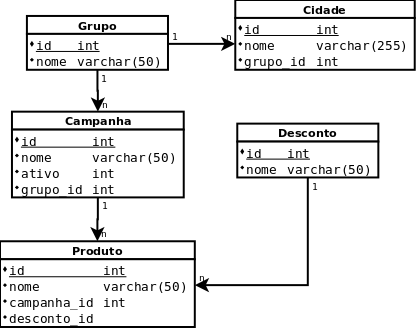
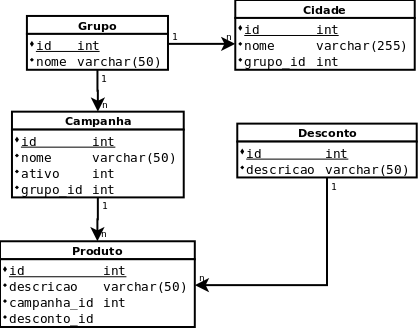
alteração mer

diff --git a/database/migrations/2021_09_04_161852_create_produtos_table.php b/database/migrations/2021_09_04_161852_create_produtos_table.php
@@ -16,6 +16,8 @@ class CreateProdutosTable extends Migration
         Schema::create('produtos', function (Blueprint $table) {
             $table->id();
             $table->string('descricao');
+            $table->unsignedBigInteger('campanha_id');
+            $table->foreign('campanha_id')->references('id')->on('campanhas')->onDelete('cascade');
             $table->unsignedBigInteger('desconto_id');
             $table->foreign('desconto_id')->references('id')->on('descontos')->onDelete('cascade');
             $table->timestamps();

diff --git a/app/Models/Produto.php b/app/Models/Produto.php
@@ -9,7 +9,7 @@ class Produto extends Model
 {
     use HasFactory;
     protected $table = 'produtos';
-    protected $fillable = ['nome', 'campanha_id', 'desconto_id'];
+    protected $fillable = ['descricao', 'campanha_id', 'desconto_id'];
 
     public function campanha()
     {

diff --git a/database/seeders/ProdutoSeeder.php b/database/seeders/ProdutoSeeder.php
@@ -16,6 +16,7 @@ class ProdutoSeeder extends Seeder
     {
         DB::table('produtos')->insert([
             'descricao' => 'Produto 1',
+            'campanha_id' => '1',
             'desconto_id' => '1'        
         ]);
     }

diff --git a/app/Models/Desconto.php b/app/Models/Desconto.php
@@ -9,7 +9,7 @@ class Desconto extends Model
 {
     use HasFactory;
     protected $table = 'descontos';
-    protected $fillable = ['nome'];
+    protected $fillable = ['descricao', 'valor'];
 
     public function produtos()
     {
